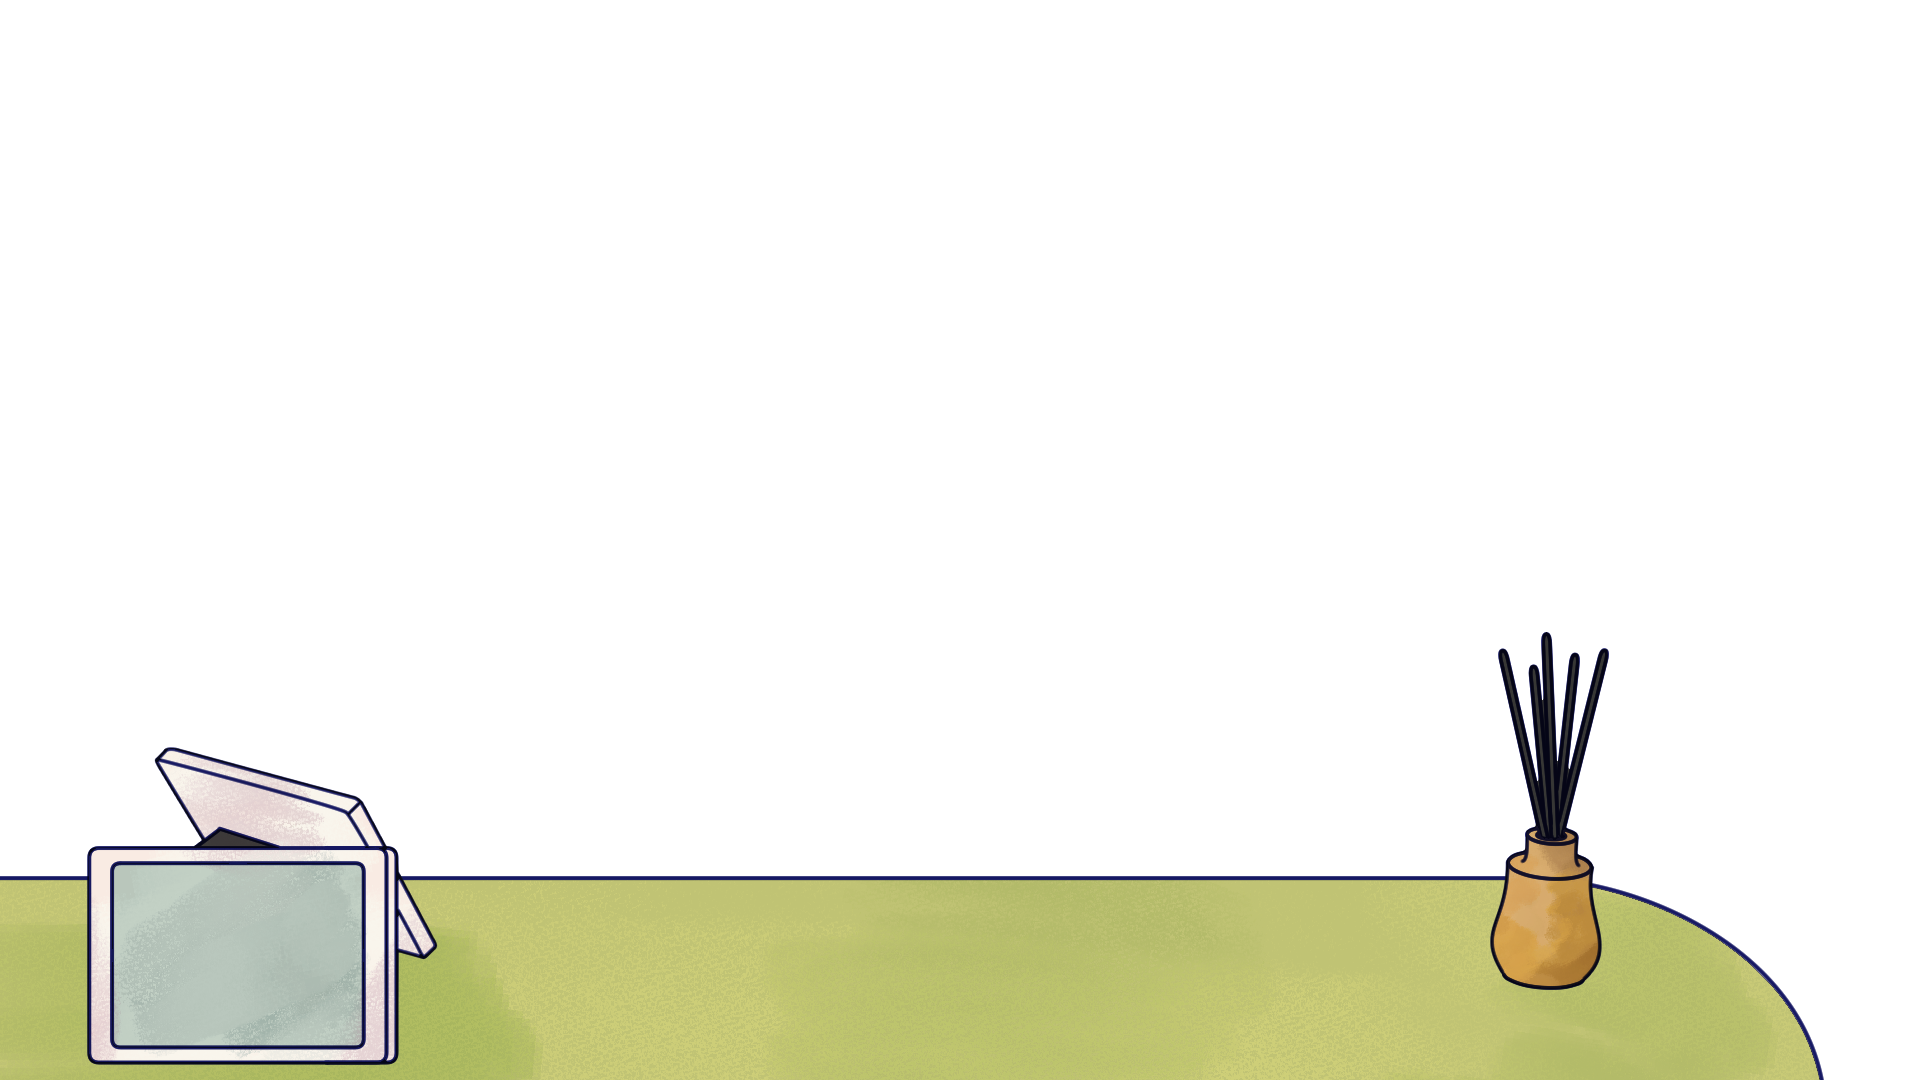
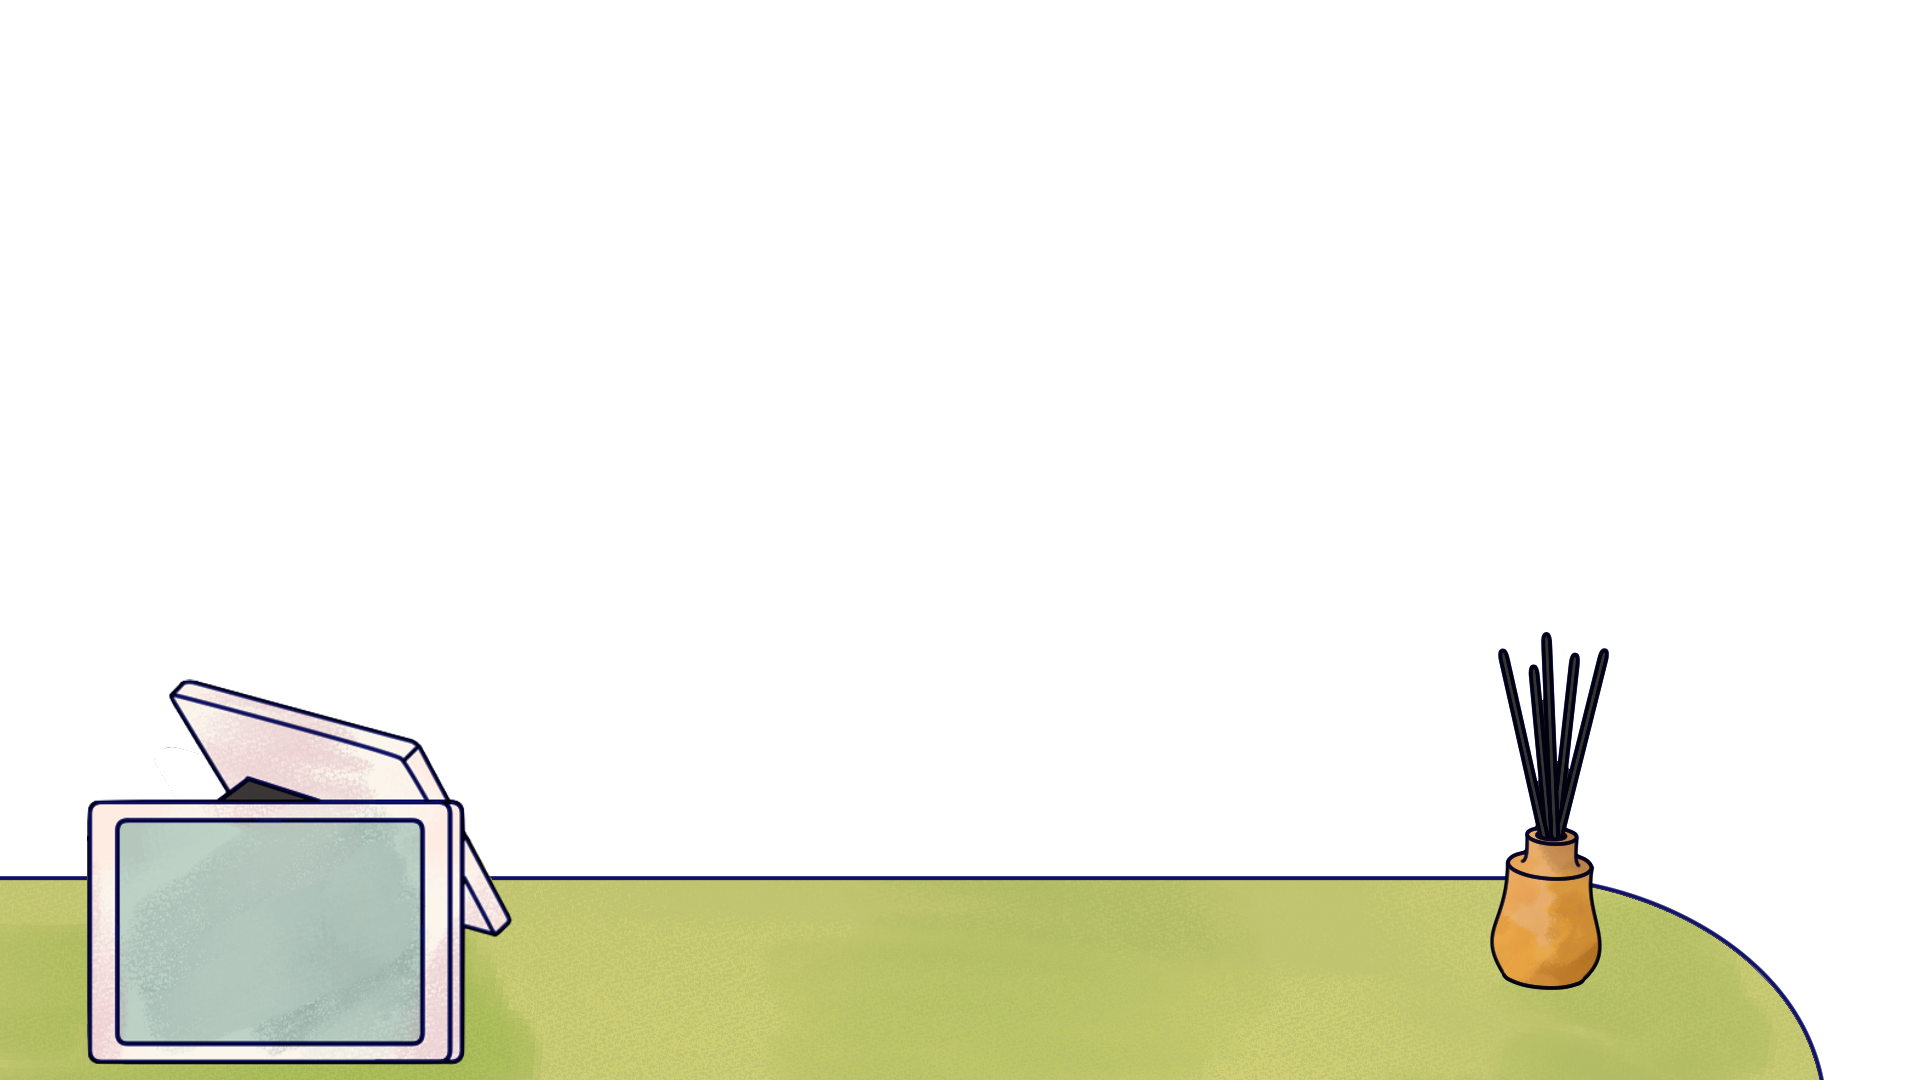
Separa meta diaria del dinero en recepcion
- Actualiza CurrencyDisplay para manejar dinero y meta en textos independientes.

- Agrega la meta diaria como elemento separado en ReceptionScene.

- Incluye ajustes visuales del fondo de recepcion.

Changed region(s): [[0.0312, 0.6111, 0.2812, 1.0]]

diff --git a/Assets/Scripts/UI/CurrencyDisplay.cs b/Assets/Scripts/UI/CurrencyDisplay.cs
@@ -4,9 +4,10 @@ using UnityEngine;
 public class CurrencyDisplay : MonoBehaviour
 {
     [SerializeField] private TMP_Text currencyText;
+    [SerializeField] private TMP_Text dailyQuotaText;
     [SerializeField] private bool showDailyQuota = true;
     [SerializeField] private string moneyOnlyFormat = "$ {0}";
-    [SerializeField] private string moneyWithQuotaFormat = "$ {0} / Meta $ {1}";
+    [SerializeField] private string dailyQuotaFormat = "Meta $ {0}";
 
     private int lastMoney = int.MinValue;
     private int lastDailyQuota = int.MinValue;
@@ -38,9 +39,10 @@ public class CurrencyDisplay : MonoBehaviour
         if (!force && money == lastMoney && dailyQuota == lastDailyQuota)
             return;
 
-        currencyText.text = showDailyQuota
-            ? string.Format(moneyWithQuotaFormat, money, dailyQuota)
-            : string.Format(moneyOnlyFormat, money);
+        currencyText.text = string.Format(moneyOnlyFormat, money);
+
+        if (dailyQuotaText != null)
+            dailyQuotaText.text = showDailyQuota ? string.Format(dailyQuotaFormat, dailyQuota) : "";
 
         lastMoney = money;
         lastDailyQuota = dailyQuota;